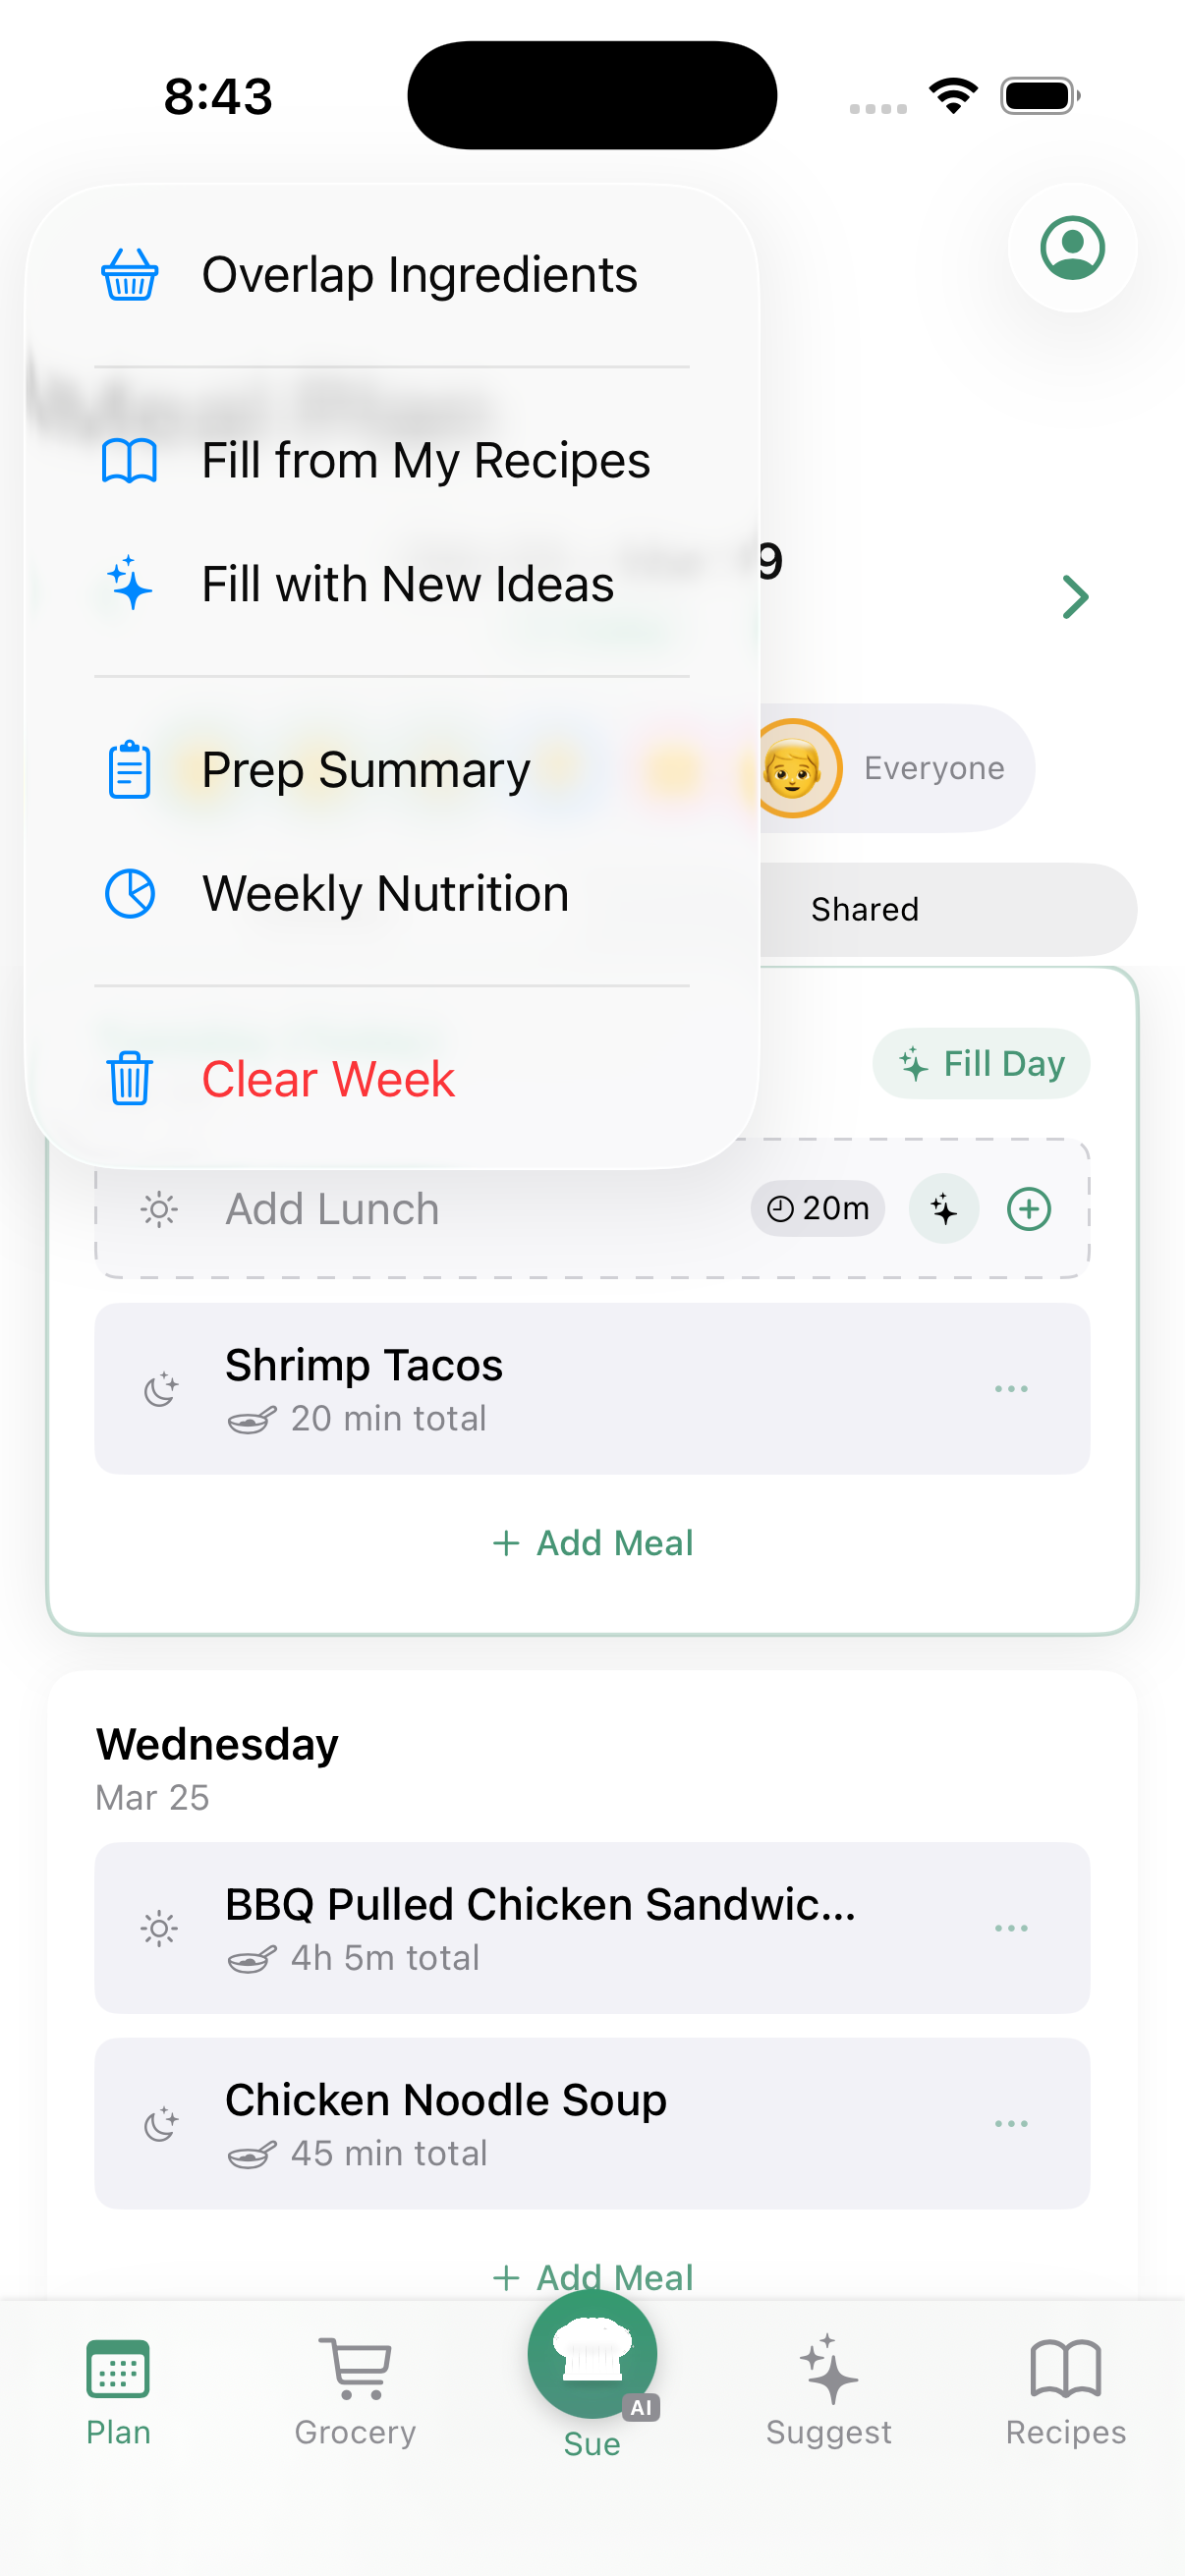
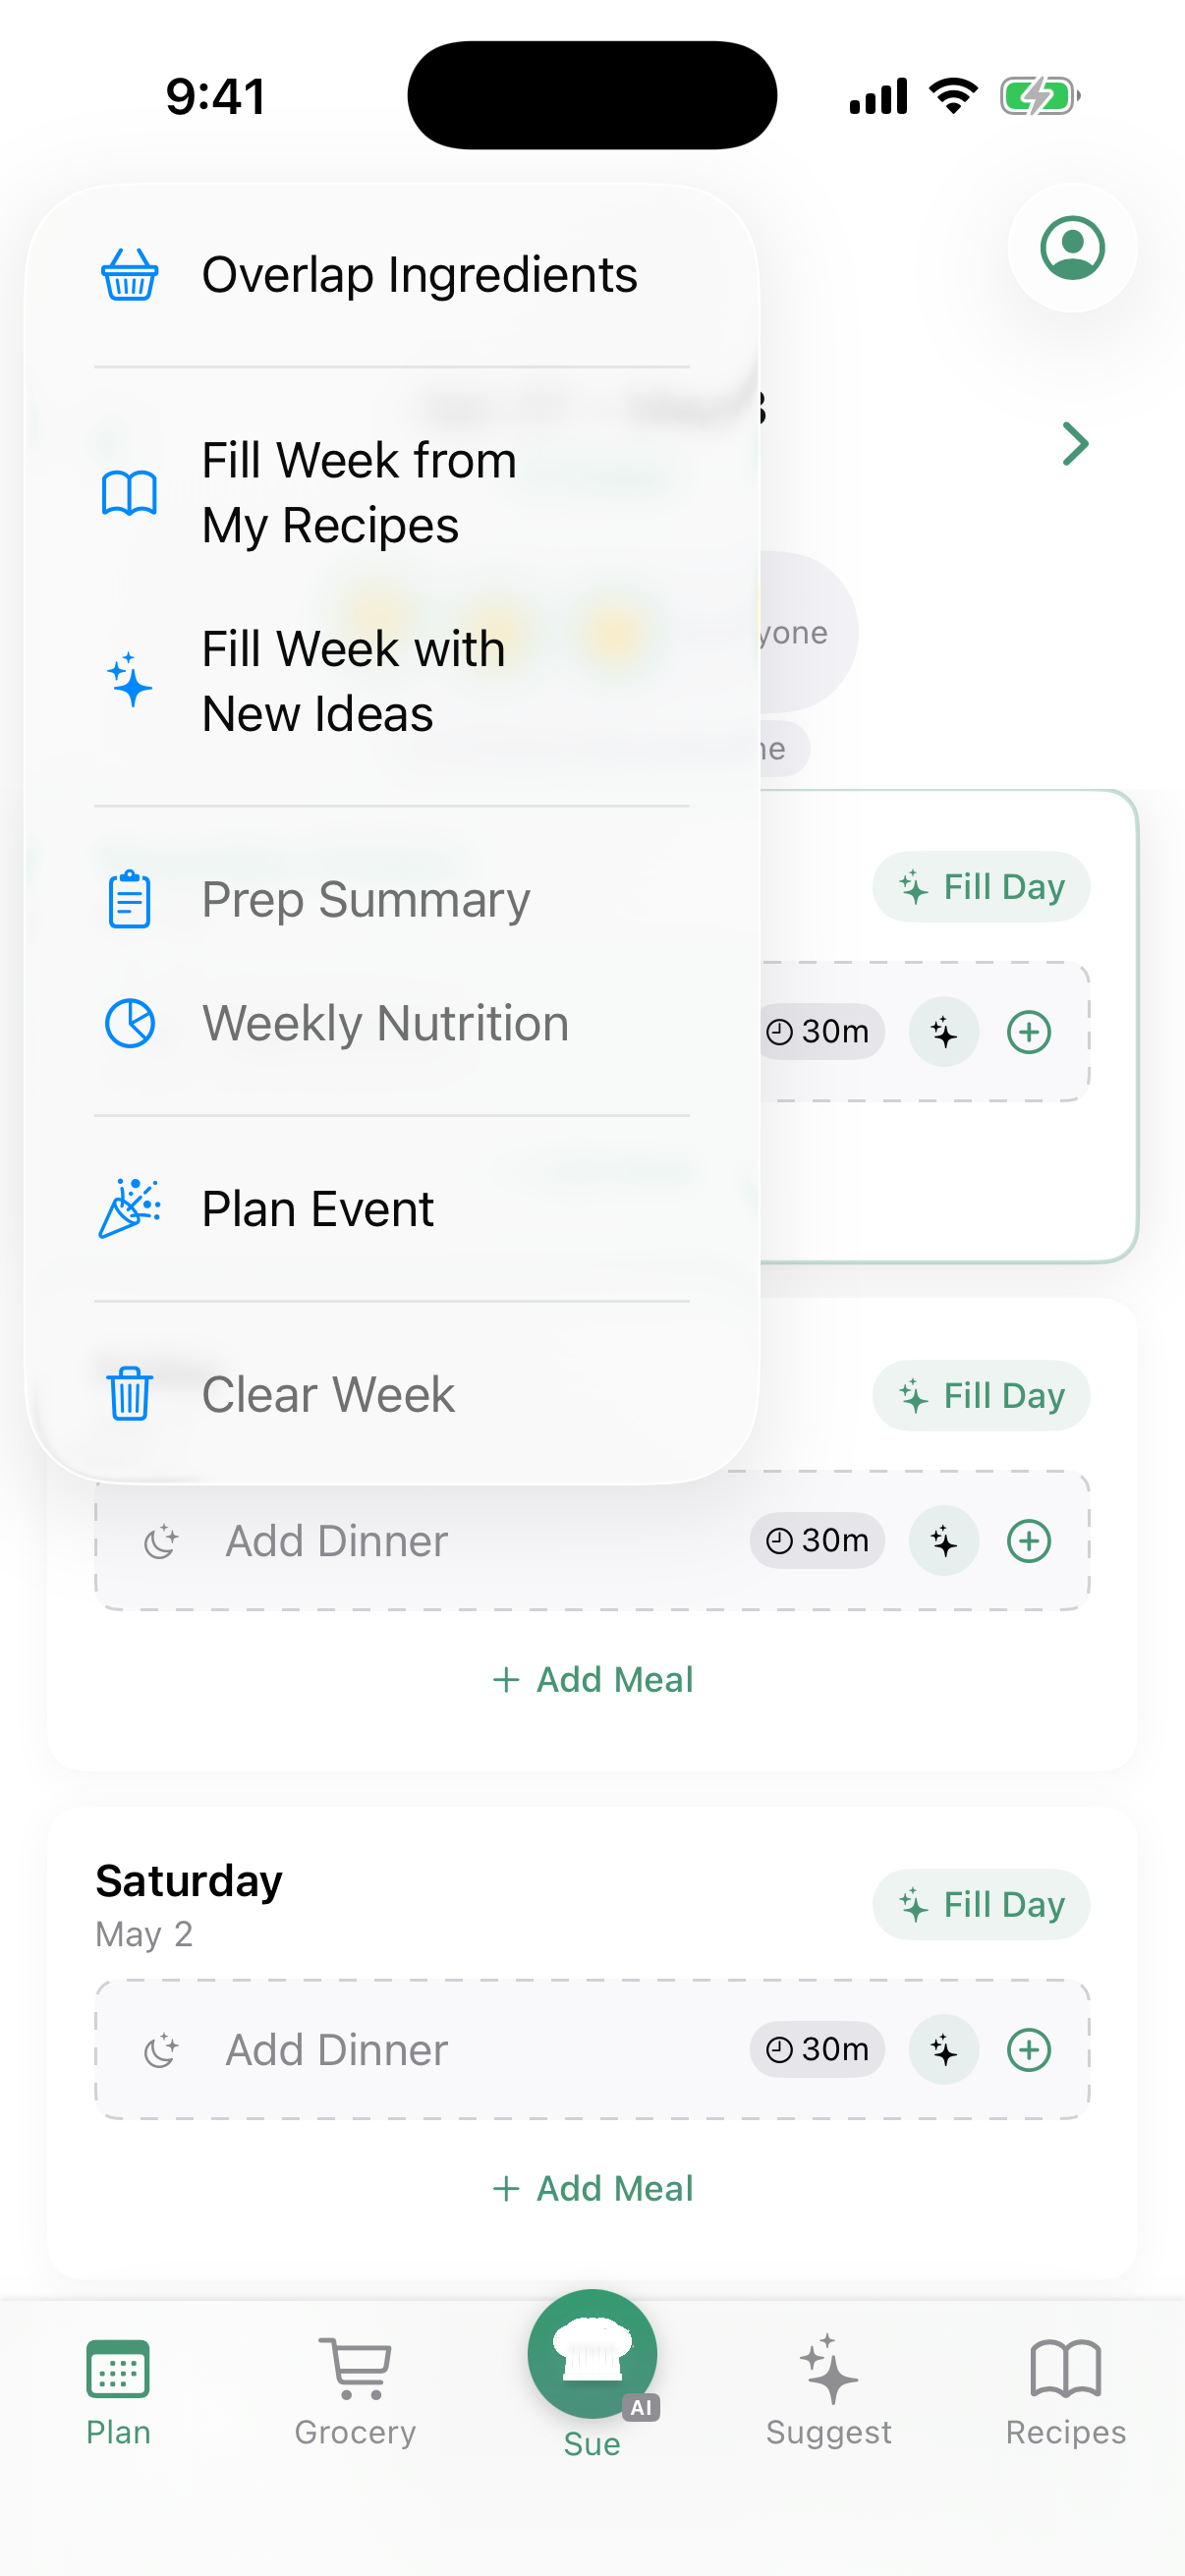
repo hygiene: add gitignore, working ASC screenshots, hosting events TODO
- .gitignore: ignore .DS_Store going forward
- SCREENSHOTS_TODO.md: planning checklist for upcoming Hosting Events
  guide screenshots
- screenshots/02-plan-menu.png: refreshed capture (referenced by guide.html)
- screenshots/11-profile-build64.png, 13-manage-household-build64.png,
  14-add-person-build64.png: ASC submission captures from build 64
- screenshots/13-manage-household-build65.png: ASC capture from build 65
- screenshots/11a-profile-ai-boost.png + 11a-profile-ai-boost-1242.png:
  Boost AI Quota button on profile (original + 1242x2688 ASC upscale)

diff --git a/SCREENSHOTS_TODO.md b/SCREENSHOTS_TODO.md
@@ -1,0 +1,113 @@
+# Hosting Events Screenshots — Checklist
+
+Capture these in the iOS Simulator (iPhone 17 Pro) and save to `screenshots/` in this repo. Use the same naming convention as existing files (e.g., `12a-event-wizard-day.png`).
+
+**Setup before capturing**: Create a Summer BBQ event in your simulator with realistic data so the screenshots look polished. You'll need:
+- An event named "Summer BBQ" (or similar) for ~12 guests
+- 2-3 prep days selected
+- A few dishes generated (Mains, Sides, Desserts)
+- 2-3 contributors added
+
+---
+
+## Required Screenshots (9 total)
+
+### 1. `12a-event-wizard-day.png`
+**Where in the app**: Plan tab → wand icon → "Plan Event" → Step 1 (Pick a Day)
+**What to capture**: The full wizard step showing the 7-day picker. **Make sure at least one day has an existing event** so the disabled/grayed-out state is visible (proves the "one event per day" rule).
+**Used for**: Section 10 → "Creating an Event"
+
+### 2. `12b-event-wizard-prep.png`
+**Where in the app**: Same wizard → Step 5 (Prep Availability)
+**What to capture**: The calendar grid with 2-3 prep days selected (event day + 1-2 days before). Below the grid, show one day expanded with the "Time windows" mode active so the start/end pickers and total hours are visible.
+**Used for**: Section 10 → "Creating an Event" (highlights the unique calendar+windows UX)
+
+### 3. `12c-event-wizard-scope.png`
+**Where in the app**: Same wizard → Step 6 (AI Planning Scope)
+**What to capture**: The three scope cards: "Plan whole menu", "Plan specific sections", "I'll plan it myself". Tap "Plan whole menu" so it shows as selected.
+**Used for**: Section 10 → "Creating an Event"
+
+### 4. `12d-event-menu.png`
+**Where in the app**: After completing the wizard and AI generation finishes → the event view's **Menu** tab
+**What to capture**: The full Menu tab with the event header (stats), the segmented tab picker, and at least 2-3 dish cards visible across multiple categories (e.g., Mains and Sides). **Make sure dish cards have images** (wait for image generation).
+**Used for**: Section 10 → "The Event View"
+
+### 5. `12e-event-dish-card.png`
+**Where in the app**: Same Menu tab — capture a close-up of ONE rich dish card
+**What to capture**: Crop or scroll so a single dish card fills most of the frame. The card should show: 72x72 image, dish title, cuisine/time/difficulty badges, contributor avatar, status badge, prep timing.
+**Used for**: Section 10 → "Adding Dishes" (or could move to "The Event View")
+
+### 6. `12f-event-timeline.png`
+**Where in the app**: Event view → **Timeline** tab (after tapping "Generate Timeline")
+**What to capture**: The full Timeline tab showing:
+- The progress header
+- The horizontal **phase pills** (e.g., "1 Day Before", "Day Of") with one selected
+- The **"Start at:" time picker** below the pills
+- 3-4 step rows with the colored dots, clock time badges (e.g., "9:30 AM"), task titles, dish names, and durations
+
+**Used for**: Section 10 → "Cooking Timeline"
+
+### 7. `12g-activity-view.png`
+**Where in the app**: Tap any timeline step → tap "Start Activity"
+**What to capture**: The fullscreen activity view showing:
+- The progress bar at top ("Step 2 of 5")
+- A clear instruction sentence (e.g., "Whisk dry ingredients in a large bowl")
+- The timer card (Start Timer button visible)
+- The "Ingredients for this step" card with 3-4 ingredients
+- Previous/Next buttons at the bottom
+
+**Used for**: Section 10 → "The Activity View"
+
+### 8. `12h-event-shopping.png`
+**Where in the app**: Event view → **Shopping** tab
+**What to capture**: The aggregated grocery list grouped by category (produce, proteins, etc.).
+**Used for**: Section 10 → "Shopping List"
+
+### 9. `12i-day-card-event.png`
+**Where in the app**: Plan tab — view the week containing your event
+**What to capture**: ONE day card that has a hosting event on it. Should show the rich event gateway card with:
+- Party-popper icon and event name
+- "11 dishes" badge in the top-right corner
+- Contributor avatars row
+- Status counts ("11 confirmed" etc.)
+- "Tap to view full menu" hint
+- The "..." menu icon visible
+
+**Used for**: Section 10 → could go in "The Event View" or as the very first screenshot of the section
+
+---
+
+## Optional Bonus Screenshots
+
+### `12j-step-detail-summary.png` (optional)
+The intermediate "Step Detail" view (between tapping a row and tapping Start Activity) — shows the summary card and the big green "Start Activity" button.
+
+### `12k-must-make-toggle.png` (optional)
+A dish card with the "Must-make" star showing.
+
+---
+
+## How to Capture in iOS Simulator
+
+1. Run the app on the simulator (iPhone 17 Pro recommended for crisp screenshots)
+2. Navigate to the screen described above
+3. Press **⌘ + S** in the simulator (or Hardware → Save Screen)
+4. Screenshots save to your Desktop
+5. Rename to the filename above and drop into `~/Documents/PROJECTS/tableset-legal/screenshots/`
+
+## When You're Done
+
+Tell Claude "I added the screenshots" and provide the list of filenames you saved. Claude will then:
+1. Verify each file exists
+2. Insert the `<div class="screenshot">` blocks at the right positions in `guide.html`
+3. Match the existing styling (single image or paired layout)
+4. Commit and push everything together
+
+---
+
+## Notes
+
+- **Don't worry about pixel-perfect**: the existing screenshots are unstyled simulator captures. Match that.
+- **Light mode preferred** for consistency with the existing screenshots.
+- **Hide your real name**: if your simulator shows "Corey" anywhere, sign in as the Dev User or use "Sarah" to match the Smith family example.
+- If a screenshot turns out hard to capture (e.g., AI generation hasn't finished), skip it and tell Claude — we can still add the rest.